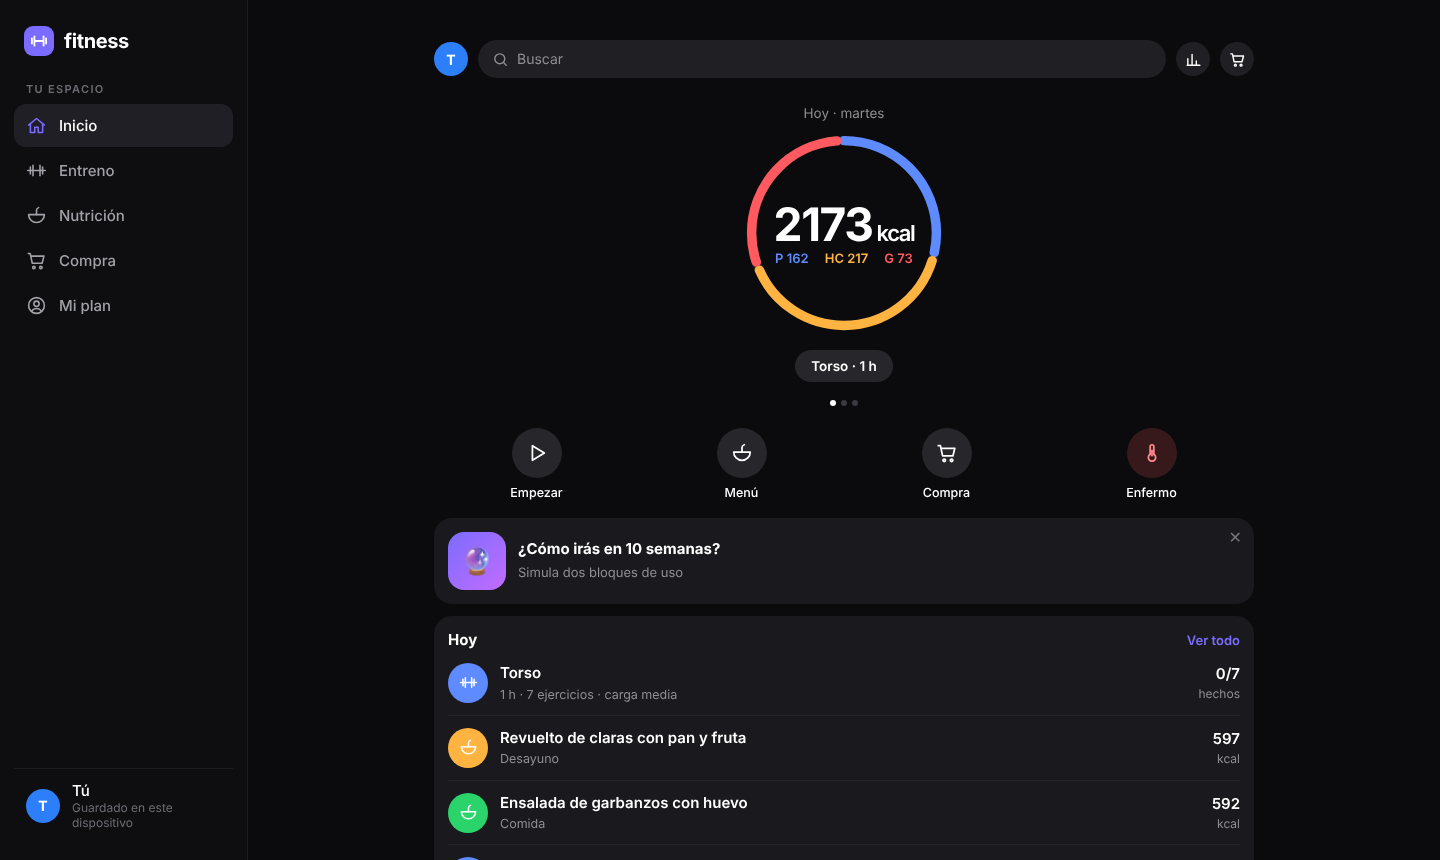
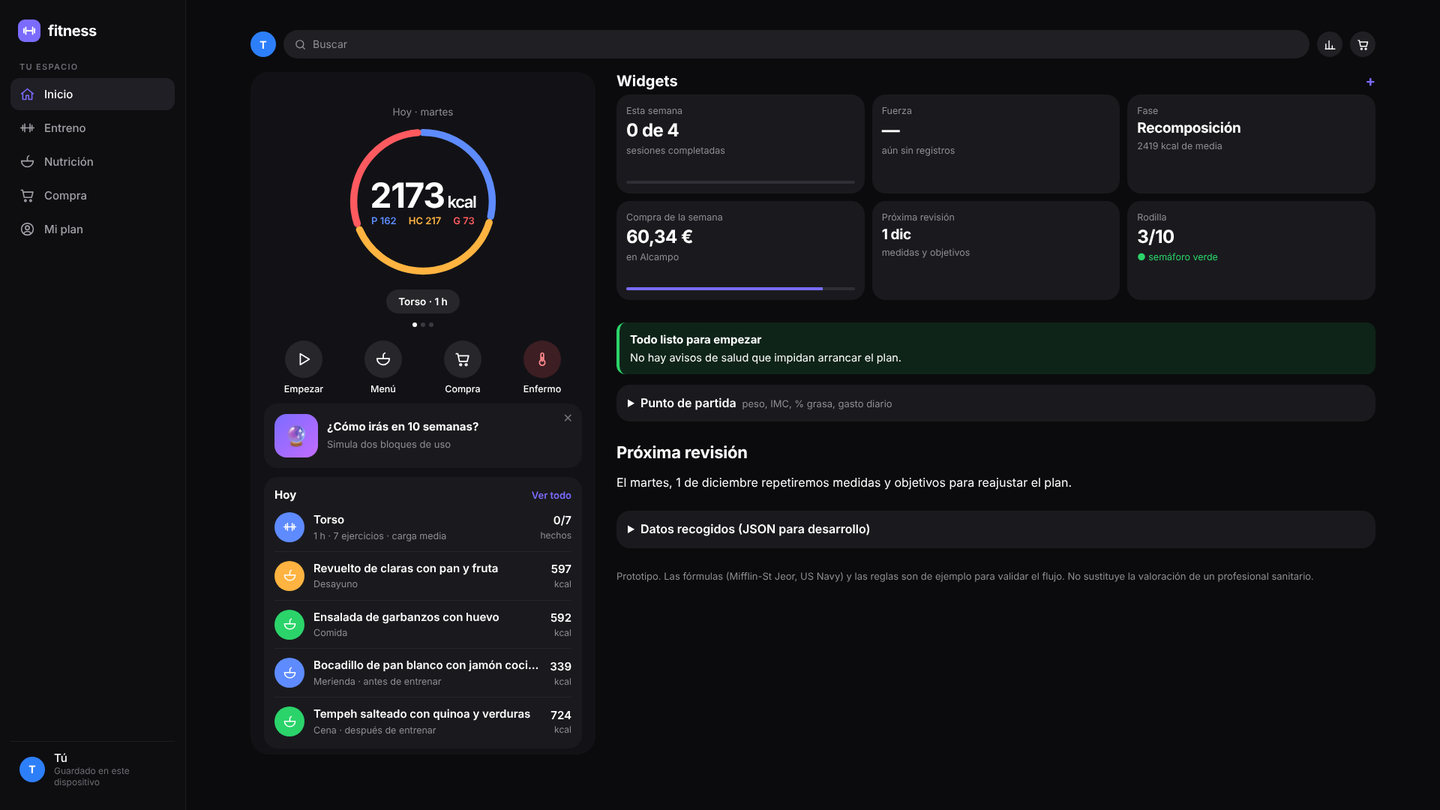
Versión web para pantallas 16:9
A partir de 1200 px cada pestaña se reparte en columnas:
- Inicio: panel del día a la izquierda, widgets en tres columnas a la derecha
- Entreno: semana y plan fijos a la izquierda, sesión a la derecha
- Nutrición: fase y datos a la izquierda, día y menú a la derecha
- Compra: filtros y presupuesto fijos a la izquierda, lista en 2-3 columnas
- Mi plan: dos columnas
En el móvil no cambia nada.

Claude-Session: https://claude.ai/code/session_0124Hm3hDP3du8p6JLmfXDRn

diff --git a/index.html b/index.html
@@ -947,6 +947,36 @@ details.pcmp .pcprov{display:grid;gap:6px}.pcprov>span{font-size:12px;color:var(
   .wrap{padding-top:28px}
 }
 @media (min-width:1024px) and (hover:hover){::-webkit-scrollbar{width:10px}::-webkit-scrollbar-thumb{background:#26262b;border-radius:10px;border:2px solid var(--bg)}}
+
+/* ---------- Versión web 16:9 ---------- */
+@media (min-width:1200px){
+  body.desk{padding-left:calc(248px + 48px);padding-right:48px}
+  body.desk .wrap{max-width:1500px}
+  .dkg{display:grid;gap:28px;align-items:start;margin-top:8px}
+  .dk-l,.dk-r{min-width:0}
+  .dk-hoy{grid-template-columns:minmax(380px,460px) minmax(0,1fr);margin-top:18px}
+  .dk-hoy>.dk-l{position:sticky;top:20px;background:#121216;border-radius:24px;padding:18px 18px 8px}
+  .dk-hoy .rvw{grid-template-columns:repeat(3,minmax(0,1fr))}
+  .dk-hoy>.dk-r>:first-child{margin-top:0}
+  .dk-ent{grid-template-columns:minmax(340px,420px) minmax(0,1fr)}
+  .dk-ent>.dk-l{position:sticky;top:20px;max-height:calc(100vh - 40px);overflow-y:auto;padding-right:6px;scrollbar-width:thin}
+  .dk-ent .week2{grid-template-columns:repeat(7,minmax(0,1fr))}
+  .dk-ent .tdet{margin-top:0}
+  .dk-nut{grid-template-columns:minmax(360px,440px) minmax(0,1fr)}
+  .dk-nut .menu{display:grid;grid-template-columns:repeat(2,minmax(0,1fr));gap:12px;align-items:start}
+  .dk-nut .menu>*{margin:0!important}
+  .dk-shop{grid-template-columns:minmax(320px,380px) minmax(0,1fr)}
+  .dk-shop>.dk-l{position:sticky;top:20px;max-height:calc(100vh - 40px);overflow-y:auto;padding-right:6px;scrollbar-width:thin}
+  .dk-shop>.dk-r{columns:2;column-gap:28px}
+  .dk-shop .shsec{break-inside:avoid;margin:0 0 18px;display:inline-block;width:100%}
+  .dk-mp{grid-template-columns:minmax(0,1fr) minmax(0,1fr)}
+}
+@media (min-width:1560px){
+  .dk-ent .exs{display:grid;grid-template-columns:repeat(2,minmax(0,1fr));column-gap:18px}
+}
+@media (min-width:1700px){
+  .dk-shop>.dk-r{columns:3}
+}
 </style>
 
 <div class="wrap" id="app"></div>
@@ -1273,7 +1303,40 @@ function barbell(steps,idx){
   return `<div class="bar" aria-hidden="true"><div class="shaft"></div><div class="collar"></div><div class="sleeve">${p}<div class="sleeve-end"></div></div></div>`;
 }
 
-function render(keep){saludMigrate();renderMain(keep);drawThumbs();if(INFO)app.innerHTML+=infoHTML();if(RSHEET)app.innerHTML+=recipeSheetHTML();if(SKS)app.innerHTML+=sickSheetHTML();if(PICK)app.innerHTML+=pickHTML();if(SRCH){app.innerHTML+=srchHTML();const qi=document.getElementById('srchq');if(qi&&SRCH.focus){qi.focus();SRCH.focus=false}}if(SHEET){app.innerHTML+=sheetHTML();if(typeof document.getElementById==='function'&&FIG.has(SHEET))FIG.animate(document.getElementById('figanim'),SHEET)}}
+
+/* ---------- Versión web (pantallas 16:9 de 1200 px o más) ----------
+   Tras pintar, reparte los bloques de cada pestaña en columnas. En el móvil no hace nada. */
+const DESK=window.matchMedia?matchMedia('(min-width:1200px)'):{matches:false};
+let DESKON=!!DESK.matches;addEventListener('resize',()=>{const m=!!DESK.matches;if(m!==DESKON){DESKON=m;app.innerHTML='';render(true)}});
+function deskLayout(){document.body.classList.toggle('desk',!!DESK.matches&&!!app.querySelector('.bnav'));
+  if(!DESK.matches||!app.querySelector('.bnav'))return;
+  const mk=(cls,l,r,host,before)=>{const g=document.createElement('div');g.className='dkg '+cls;const L=document.createElement('div');L.className='dk-l';const R=document.createElement('div');R.className='dk-r';
+    l.filter(Boolean).forEach(e=>L.appendChild(e));r.filter(Boolean).forEach(e=>R.appendChild(e));g.append(L,R);host.insertBefore(g,before||null);return g};
+  const q=(sel,root=app)=>[...root.querySelectorAll(sel)];
+  const kids=root=>[...root.children];
+  const nav=app.querySelector('.bnavsp');
+  if(app.querySelector(':scope>.rvbal')){ // Inicio
+    const all=kids(app).filter(e=>!e.matches('.rvtop,.bnavsp,.bnav,.sheetwrap,.srch,.pick'));
+    const L=all.filter(e=>e.matches('.rvbal,.rvdots,.rvacts,.rvpromo,.rvcard'));
+    mk('dk-hoy',L,all.filter(e=>!L.includes(e)),app,nav);return;}
+  const blk=app.querySelector(':scope>section.block');
+  if(blk&&blk.querySelector(':scope>.tdet')){ // Entreno
+    const ch=kids(blk),hd=ch[0],R=ch.filter(e=>e.matches('.tdet'));
+    const more=kids(app).filter(e=>e.matches('section.block')&&e!==blk);
+    mk('dk-ent',[...ch.filter(e=>e!==hd&&!R.includes(e)),...more],R,blk,null);return;}
+  if(app.querySelector(':scope>.nfhero')&&blk){ // Nutrición
+    const ch=kids(blk),hd=ch[0],nd=ch.find(e=>e.matches('.ndet'));if(!nd)return;
+    const i=ch.indexOf(nd),st=ch.slice(0,i).reverse().find(e=>e.matches('h3.subh'));
+    const R=ch.slice(st?ch.indexOf(st):i,i+2).filter(e=>e!==hd);
+    mk('dk-nut',ch.filter(e=>e!==hd&&!R.includes(e)),R,blk,null);return;}
+  if(blk&&blk.querySelector(':scope>.shsec')){ // Compra
+    const ch=kids(blk),hd=ch[0],R=ch.filter(e=>e.matches('.shsec'));const tail=ch.filter(e=>e.matches('p.volnote')&&ch.indexOf(e)>ch.indexOf(R[R.length-1]));
+    mk('dk-shop',ch.filter(e=>e!==hd&&!R.includes(e)&&!tail.includes(e)),[...R,...tail],blk,null);return;}
+  if(app.querySelector(':scope>.mp-av')){ // Mi plan
+    const all=kids(app).filter(e=>!e.matches('.rvtop,.bnavsp,.bnav,.mp-av,.sheetwrap,.srch,.pick'));const m=all.filter(e=>e.matches('.mpl'));
+    mk('dk-mp',[m[0]],all.filter(e=>e!==m[0]),app,nav);return;}
+}
+function render(keep){saludMigrate();renderMain(keep);deskLayout();drawThumbs();if(INFO)app.innerHTML+=infoHTML();if(RSHEET)app.innerHTML+=recipeSheetHTML();if(SKS)app.innerHTML+=sickSheetHTML();if(PICK)app.innerHTML+=pickHTML();if(SRCH){app.innerHTML+=srchHTML();const qi=document.getElementById('srchq');if(qi&&SRCH.focus){qi.focus();SRCH.focus=false}}if(SHEET){app.innerHTML+=sheetHTML();if(typeof document.getElementById==='function'&&FIG.has(SHEET))FIG.animate(document.getElementById('figanim'),SHEET)}}
 function renderMain(keep){
   if(curId==='progreso'){
     app.innerHTML=rvTop()+`<div class="meta" style="margin-top:14px"><button class="link" data-tab="miplan">← Mi plan</button><span class="count">Ciclo actual</span></div><h1>Tu progreso</h1>${progHTML()}${bnavHTML('seg')}`;

diff --git a/README.md b/README.md
@@ -31,7 +31,7 @@
 <p align="center">
   <img src="docs/escritorio.png" width="90%" alt="Versión de escritorio con barra lateral">
 </p>
-<p align="center"><sub>En el ordenador se muestra con barra lateral; en el móvil, con barra inferior.</sub></p>
+<p align="center"><sub>En el ordenador (pantallas 16:9) se muestra como web, con barra lateral y contenido en columnas; en el móvil, con barra inferior.</sub></p>
 
 ---
 
